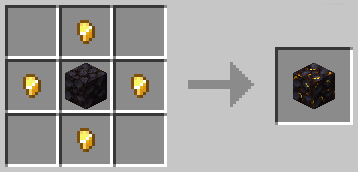
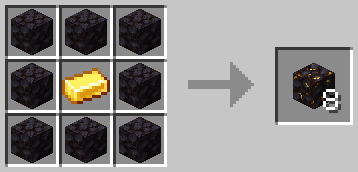
added gilded blackstone, conduit, bricks recipe

diff --git a/RECIPE.md b/RECIPE.md
@@ -149,6 +149,11 @@
 
 - New Recipe for ``Name Tag`` (can be Crafted from 1 ``String`` and 2 ``Paper``)
 
+### Banner Pattern
+<img src="https://github.com/mygazthehealer/chocos-crafting-tweaks/blob/main/other/crafting/banner_pattern_apple.png?raw=true">
+
+- Input is 1 Paper and 1 Golden Apple (instead of 1 Paper and 1 Enchanted Golden Apple)
+
 ### Redstone Torch
 <img src="https://github.com/mygazthehealer/chocos-crafting-tweaks/blob/main/other/crafting/redstone_torch.png?raw=true">
 
@@ -505,7 +510,7 @@
 ### Gilded Blackstone
 <img src="https://github.com/mygazthehealer/chocos-crafting-tweaks/blob/main/other/crafting/gilded_blackstone.png?raw=true">
 
-- New Recipe for ``Gilded Blackstone`` (can be Crafted from 4 ``Gold Nugget`` and 1 ``Blackstone``)
+- New Recipe for ``Gilded Blackstone`` (can be Crafted from 8 ``Blackstone`` and 1 ``Gold Ingot``)
 
 ### Copper Bulb
 <img src="https://github.com/mygazthehealer/chocos-crafting-tweaks/blob/main/other/crafting/copper_bulb.gif?raw=true">
@@ -528,6 +533,11 @@
 
 - Recipe is now Shapeless
 - Input is 1 ``Copper Ingot`` and 1 ``Amethyst Shard`` (instead of 2 ``Copper Ingot`` and 1 ``Amethyst Shard``)
+
+### Conduit
+<img src="https://github.com/mygazthehealer/chocos-crafting-tweaks/blob/main/other/crafting/conduit.png?raw=true">
+
+- Input is 8 ``Prismarine Crystal`` and 1 ``Heart of the Sea`` (instead of 8 ``Nautilus Shell`` and 1 ``Heart of the Sea``)
 
 ### Sea Lantern
 <img src="https://github.com/mygazthehealer/chocos-crafting-tweaks/blob/main/other/crafting/sea_lantern.png?raw=true">
@@ -569,7 +579,12 @@
 <img src="https://github.com/mygazthehealer/chocos-crafting-tweaks/blob/main/other/crafting/blaze_powder.png?raw=true">
 
 - Output is 3 ``Blaze Powder`` (instead of 2)
- 
+
+### Bricks
+<img src="https://github.com/mygazthehealer/chocos-crafting-tweaks/blob/main/other/crafting/bricks.png?raw=true">
+
+- New Recipe for ``Bricks`` (can be crafted from 4 ``Terracotta``)
+
 ### Pottery Sherd
 <img src="https://github.com/mygazthehealer/chocos-crafting-tweaks/blob/main/other/crafting/pottery_sherds.gif?raw=true">
 <img src="https://github.com/mygazthehealer/chocos-crafting-tweaks/blob/main/other/crafting/pottery_sherds_2.gif?raw=true">
